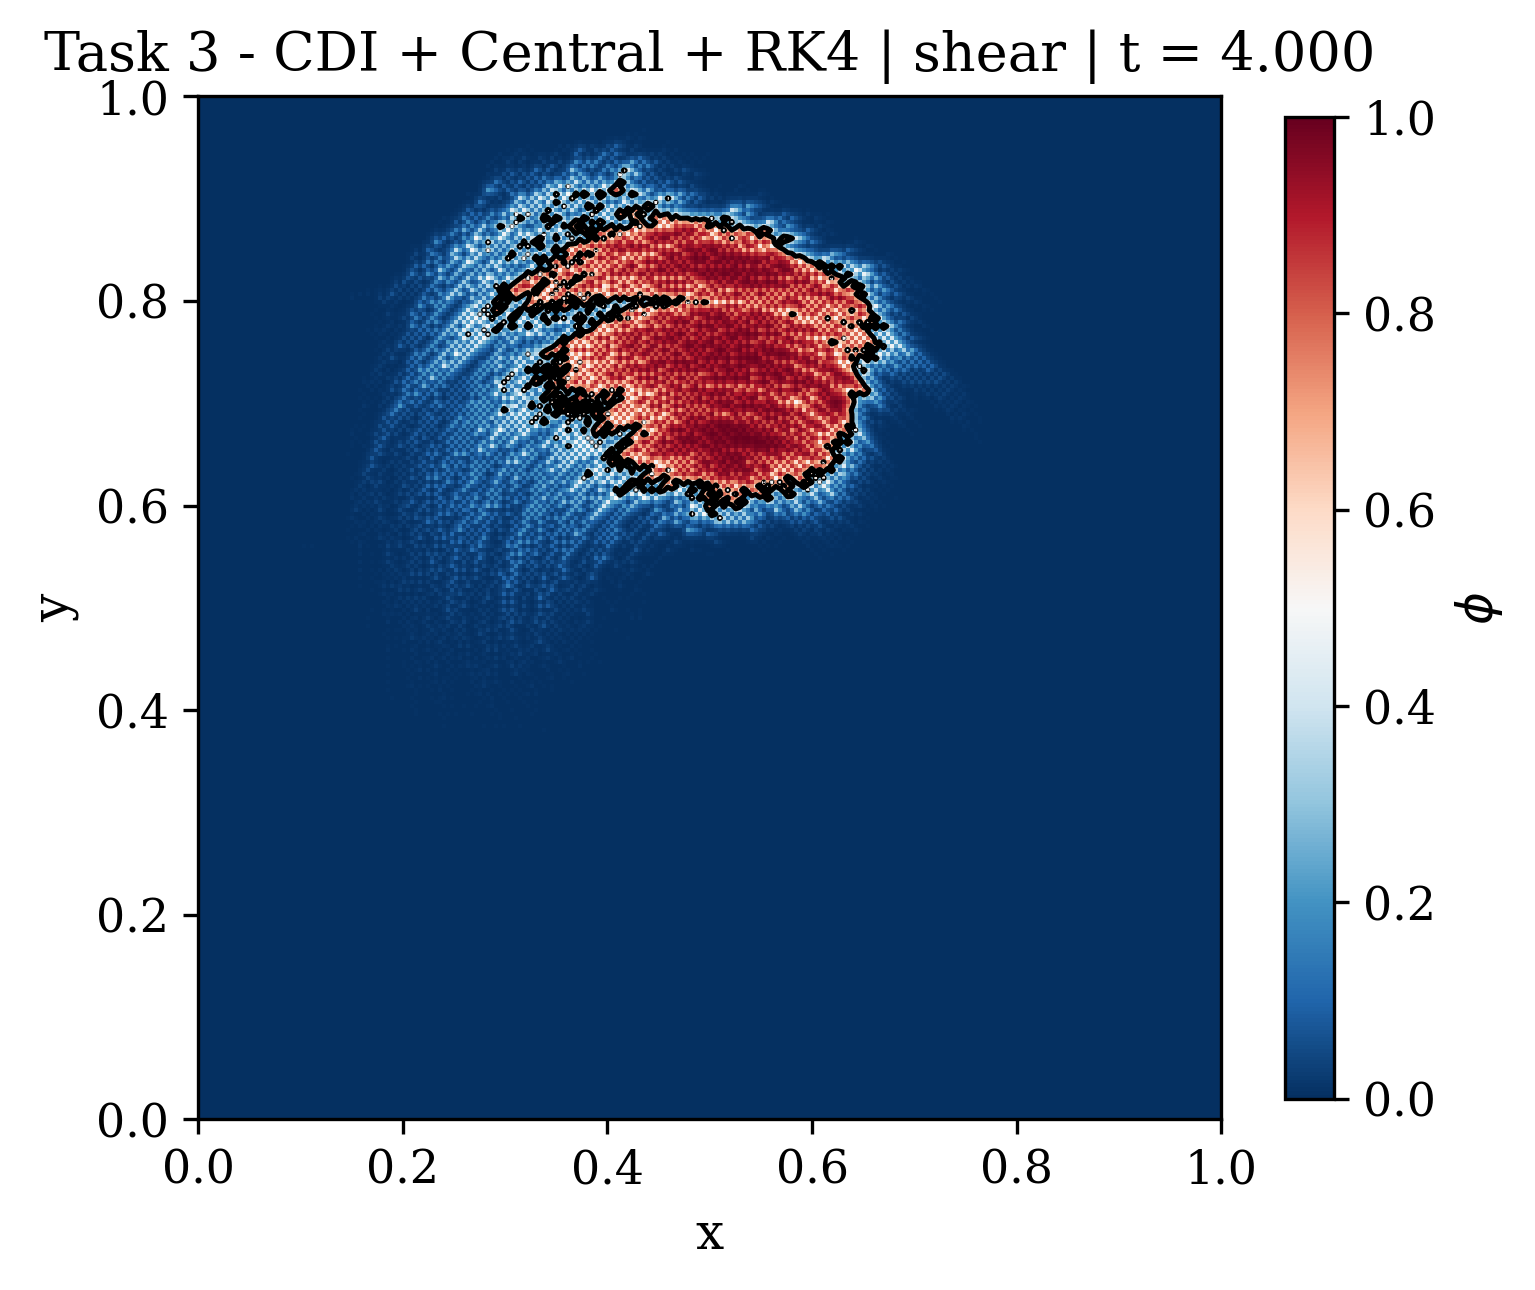
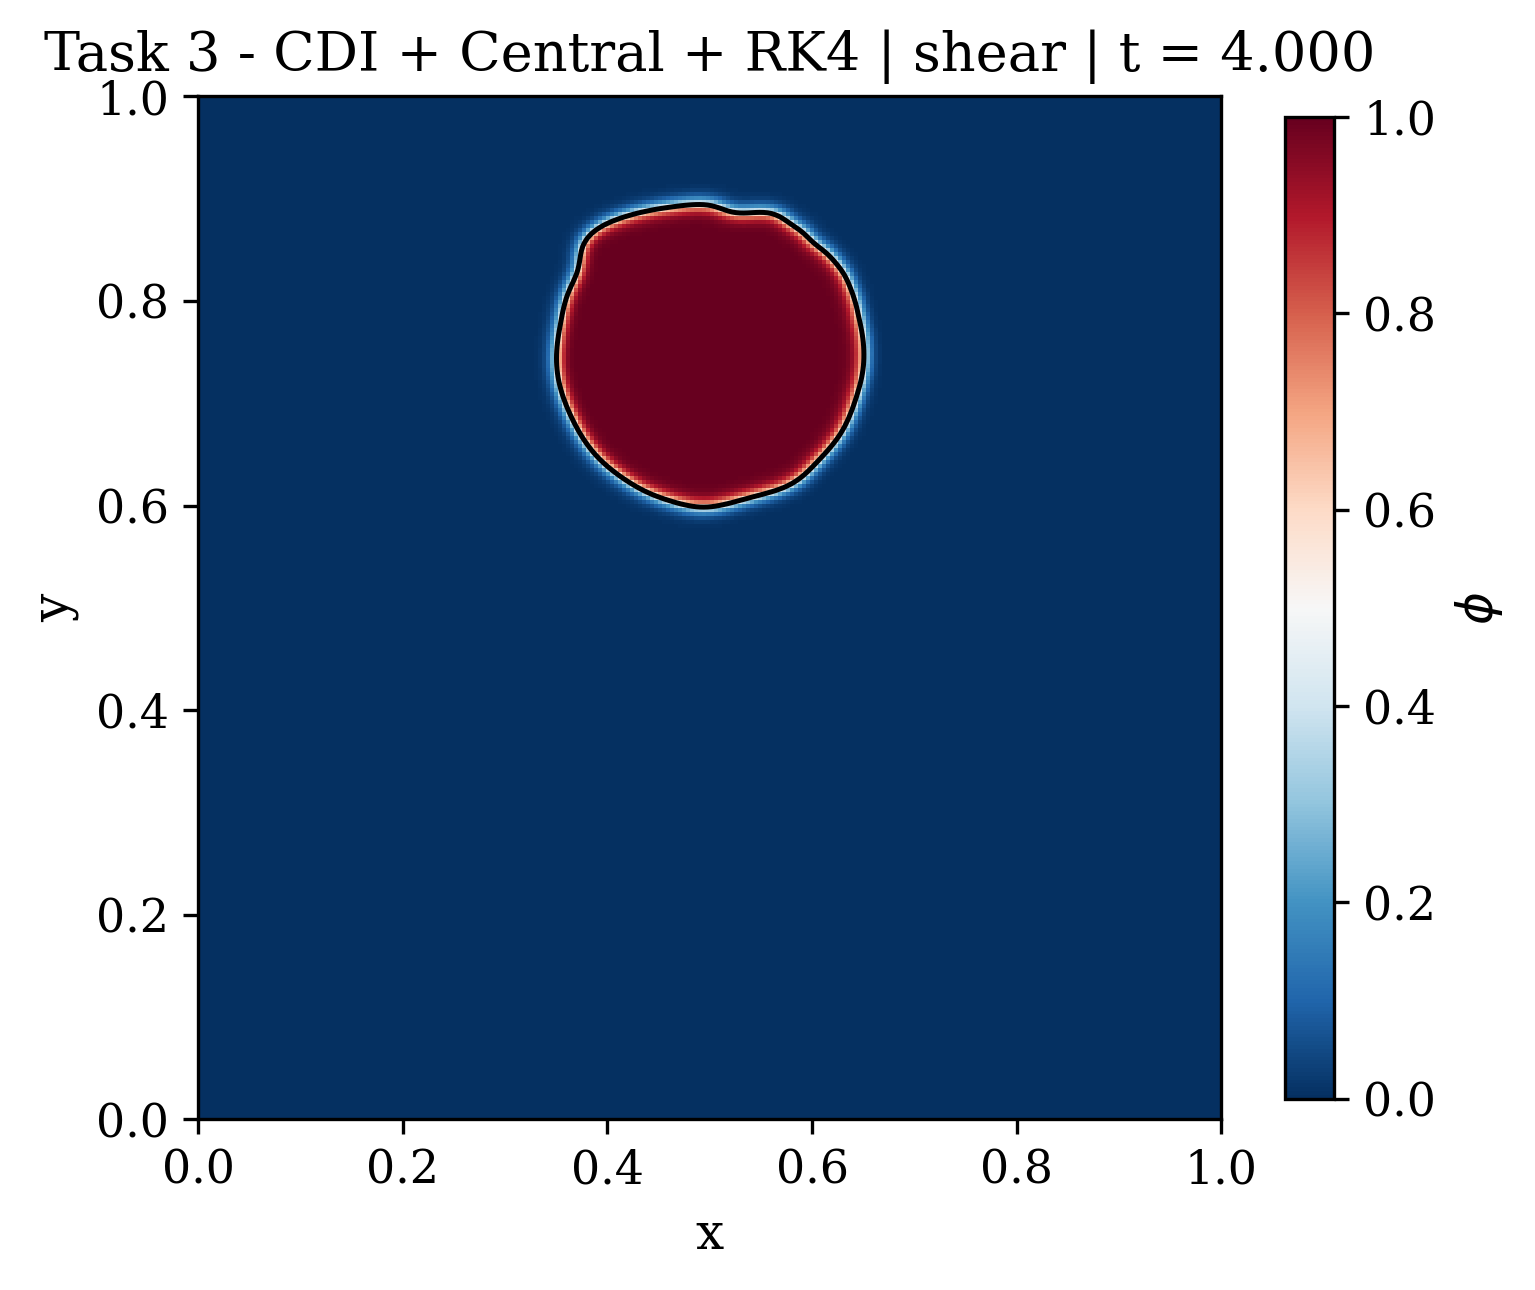
fixed all bug, no explanation just beast mode

Changed region(s): [[0.245, 0.093, 0.6124, 0.4961]]

diff --git a/src/core/regularization.py b/src/core/regularization.py
@@ -17,17 +17,18 @@ where n_hat = grad(phi) / |grad(phi)| is the interface unit normal,
 eps is the interface half-thickness parameter, and Gamma is a rate
 parameter that must satisfy Gamma >= |u|_max / (2*eps/dx - 1).
 
-ACDI (Accurate CDI) -- Jain 2022, Eq. (20)-(21)
--------------------------------------------------
-ACDI reformulates the sharpening term using the transformed variable
-psi = eps * ln(phi / (1-phi)):
+ACDI (Accurate CDI) -- Jain 2022, Eq. (7), (20)-(21)
+----------------------------------------------------
+ACDI replaces the phi-based sharpening flux with a psi-based form:
 
-    R_ACDI = Gamma * div[ eps*grad(phi) - coeff*n_psi ]
+    R_ACDI = Gamma * div[ eps*grad(phi)
+                          - (1/4)(1 - tanh^2(psi/(2*eps))) * grad(psi)/|grad(psi)| ]
 
-where coeff = (1/4)*(1 - tanh^2(psi / (2*eps))) and
-n_psi = grad(psi) / |grad(psi)| is the interface normal computed from psi.
-Paired with skew-symmetric advection splitting.
-Gamma >= |u|_max for ACDI.
+where psi = eps * ln(phi / (1-phi)) is a signed-distance-like variable.
+The diffusion coefficient is the SAME as CDI (full eps).  The improvement
+comes from using psi -- a smoother function than phi -- to compute the
+sharpening flux and normal, yielding more accurate discrete gradients.
+Gamma >= |u|_max for ACDI (Eq. 9).
 
 Both methods preserve:
   - Global mass (integral of phi) to machine precision.
@@ -78,13 +79,15 @@ def cdi_regularization(
     eps: float,
     Gamma: float = 1.0,
 ) -> np.ndarray:
-    """Return the CDI regularisation RHS term.
+    """Return the CDI regularisation RHS term (Jain 2022, Eq. 1/21).
 
     Implements:
-        R_CDI = Gamma * [ eps * lap(phi) - div( phi*(1-phi)*n_hat ) ]
+        R_CDI = Gamma * div[ eps*grad(phi) - phi*(1-phi)*n_hat ]
 
-    Computed at faces in divergence form for exact conservation:
-        R = Gamma * div[ eps*grad(phi) - phi*(1-phi)*n_hat ]
+    Discretisation follows Jain 2022 Eq. (21): diffusion uses compact face
+    gradients, sharpening flux (phi*(1-phi)*n_hat) is computed at cell centres
+    and averaged to faces.  This ensures better cancellation between the
+    diffusion and sharpening terms at the discrete level.
 
     Parameters
     ----------
@@ -105,32 +108,30 @@ def cdi_regularization(
     nx_c, ny_c = mesh.nx, mesh.ny
     dx, dy = mesh.dx, mesh.dy
 
-    # Cell-centre gradients (periodic)
-    dphi_dy_cc = (np.roll(phi, -1, axis=0) - np.roll(phi, 1, axis=0)) / (2.0 * dy)
+    # Cell-centre gradients and normalised normal (periodic)
     dphi_dx_cc = (np.roll(phi, -1, axis=1) - np.roll(phi, 1, axis=1)) / (2.0 * dx)
+    dphi_dy_cc = (np.roll(phi, -1, axis=0) - np.roll(phi, 1, axis=0)) / (2.0 * dy)
+    mag_cc = np.sqrt(dphi_dx_cc**2 + dphi_dy_cc**2) + 1e-14
+
+    # Cell-centre sharpening vector: phi*(1-phi)*n_hat
+    sharp_x_cc = phi * (1.0 - phi) * dphi_dx_cc / mag_cc
+    sharp_y_cc = phi * (1.0 - phi) * dphi_dy_cc / mag_cc
 
     # --- x-faces (nx+1 faces) ---
     Ax = np.empty((ny_c, nx_c + 1))
     for i in range(nx_c + 1):
         il = (i - 1) % nx_c
         ir = i % nx_c
-        phi_f = 0.5 * (phi[:, il] + phi[:, ir])
         dphi_dx_f = (phi[:, ir] - phi[:, il]) / dx
-        dphi_dy_f = 0.5 * (dphi_dy_cc[:, il] + dphi_dy_cc[:, ir])
-        mag_f = np.sqrt(dphi_dx_f**2 + dphi_dy_f**2) + 1e-14
-        # Flux: eps*dphi_dx - phi*(1-phi)*n_x = eps*dphi_dx - phi*(1-phi)*dphi_dx/|grad|
-        Ax[:, i] = eps * dphi_dx_f - phi_f * (1.0 - phi_f) * dphi_dx_f / mag_f
+        Ax[:, i] = eps * dphi_dx_f - 0.5 * (sharp_x_cc[:, il] + sharp_x_cc[:, ir])
 
     # --- y-faces (ny+1 faces) ---
     Ay = np.empty((ny_c + 1, nx_c))
     for j in range(ny_c + 1):
         jb = (j - 1) % ny_c
         jt = j % ny_c
-        phi_f = 0.5 * (phi[jb, :] + phi[jt, :])
         dphi_dy_f = (phi[jt, :] - phi[jb, :]) / dy
-        dphi_dx_f = 0.5 * (dphi_dx_cc[jb, :] + dphi_dx_cc[jt, :])
-        mag_f = np.sqrt(dphi_dx_f**2 + dphi_dy_f**2) + 1e-14
-        Ay[j, :] = eps * dphi_dy_f - phi_f * (1.0 - phi_f) * dphi_dy_f / mag_f
+        Ay[j, :] = eps * dphi_dy_f - 0.5 * (sharp_y_cc[jb, :] + sharp_y_cc[jt, :])
 
     # Divergence of the regularisation flux, scaled by Gamma
     rhs = Gamma * ((Ax[:, 1:] - Ax[:, :-1]) / dx + (Ay[1:, :] - Ay[:-1, :]) / dy)
@@ -143,14 +144,20 @@ def acdi_regularization(
     eps: float,
     Gamma: float = 1.0,
 ) -> np.ndarray:
-    """Return the ACDI regularisation RHS term (Jain 2022, Eq. 20-21).
+    """Return the ACDI regularisation RHS term (Jain 2022, Eq. 7/21).
 
-    Uses the transformed variable psi = eps * ln(phi / (1-phi)) so the
-    sharpening coefficient becomes (1/4)*(1 - tanh^2(psi/(2*eps))) and the
-    interface normal is computed from grad(psi).
+    Implements (Eq. 7):
+        R_ACDI = Gamma * div[ eps*grad(phi)
+                              - (1/4)(1 - tanh^2(psi/(2*eps))) * grad(psi)/|grad(psi)| ]
 
-    In flux form:
-        R = Gamma * div[ eps*grad(phi) - coeff*n_psi ]
+    where psi = eps * ln(phi / (1 - phi)) is the signed-distance-like variable.
+    The diffusion uses full eps (same as CDI).  The sharpening flux uses
+    the psi-based form for improved discrete accuracy (psi is smoother
+    than phi, yielding more accurate gradient/normal computations).
+
+    Discretisation follows Jain 2022 Eq. (21): diffusion uses compact face
+    gradients, sharpening flux (coeff*n_hat) is computed at cell centres
+    and averaged to faces.
 
     Parameters
     ----------
@@ -171,52 +178,37 @@ def acdi_regularization(
     nx_c, ny_c = mesh.nx, mesh.ny
     dx, dy = mesh.dx, mesh.dy
 
-    # Transformed variable psi = eps * ln(phi / (1 - phi))
-    omega = 1e-100
-    psi = eps * np.log((phi + omega) / (1.0 - phi + omega))
+    # Signed-distance-like variable: psi = eps * ln((phi+w) / (1-phi+w))
+    # Clip phi to [0,1] first (paper Sec. 3.1), then add w per Eq. (8).
+    w = 1e-100
+    phi_c = np.clip(phi, 0.0, 1.0)
+    psi = eps * np.log((phi_c + w) / (1.0 - phi_c + w))
 
-    # Cell-centre gradients of psi
+    # Cell-centre gradients of psi and normalised normal
     dpsi_dx_cc = (np.roll(psi, -1, axis=1) - np.roll(psi, 1, axis=1)) / (2.0 * dx)
     dpsi_dy_cc = (np.roll(psi, -1, axis=0) - np.roll(psi, 1, axis=0)) / (2.0 * dy)
+    mag_psi_cc = np.sqrt(dpsi_dx_cc**2 + dpsi_dy_cc**2) + 1e-14
+
+    # Cell-centre sharpening vector: coeff * n_hat (Eq. 21)
+    coeff_cc = 0.25 * (1.0 - np.tanh(psi / (2.0 * eps)) ** 2)
+    sharp_x_cc = coeff_cc * dpsi_dx_cc / mag_psi_cc
+    sharp_y_cc = coeff_cc * dpsi_dy_cc / mag_psi_cc
 
     # --- x-faces ---
     Ax = np.empty((ny_c, nx_c + 1))
     for i in range(nx_c + 1):
         il = (i - 1) % nx_c
         ir = i % nx_c
-
-        # phi diffusion term
         dphi_dx_f = (phi[:, ir] - phi[:, il]) / dx
-
-        # psi sharpening term
-        dpsi_dx_f = (psi[:, ir] - psi[:, il]) / dx
-        dpsi_dy_f = 0.5 * (dpsi_dy_cc[:, il] + dpsi_dy_cc[:, ir])
-        psi_f = 0.5 * (psi[:, il] + psi[:, ir])
-
-        mag_psi_f = np.sqrt(dpsi_dx_f**2 + dpsi_dy_f**2) + 1e-14
-
-        # ACDI coefficient: (1/4)(1 - tanh^2(psi / (2*eps)))
-        coeff = 0.25 * (1.0 - np.tanh(psi_f / (2.0 * eps)) ** 2)
-
-        Ax[:, i] = eps * dphi_dx_f - coeff * dpsi_dx_f / mag_psi_f
+        Ax[:, i] = eps * dphi_dx_f - 0.5 * (sharp_x_cc[:, il] + sharp_x_cc[:, ir])
 
     # --- y-faces ---
     Ay = np.empty((ny_c + 1, nx_c))
     for j in range(ny_c + 1):
         jb = (j - 1) % ny_c
         jt = j % ny_c
-
         dphi_dy_f = (phi[jt, :] - phi[jb, :]) / dy
-
-        dpsi_dy_f = (psi[jt, :] - psi[jb, :]) / dy
-        dpsi_dx_f = 0.5 * (dpsi_dx_cc[jb, :] + dpsi_dx_cc[jt, :])
-        psi_f = 0.5 * (psi[jb, :] + psi[jt, :])
-
-        mag_psi_f = np.sqrt(dpsi_dx_f**2 + dpsi_dy_f**2) + 1e-14
-
-        coeff = 0.25 * (1.0 - np.tanh(psi_f / (2.0 * eps)) ** 2)
-
-        Ay[j, :] = eps * dphi_dy_f - coeff * dpsi_dy_f / mag_psi_f
+        Ay[j, :] = eps * dphi_dy_f - 0.5 * (sharp_y_cc[jb, :] + sharp_y_cc[jt, :])
 
     rhs = Gamma * ((Ax[:, 1:] - Ax[:, :-1]) / dx + (Ay[1:, :] - Ay[:-1, :]) / dy)
     return rhs

diff --git a/src/solvers/task3_cdi_2nd_rk4.py b/src/solvers/task3_cdi_2nd_rk4.py
@@ -59,6 +59,7 @@ def build_rhs(
     mesh: Mesh,
     velocity_fn,
     eps: float,
+    u_max_global: float,
 ) -> np.ndarray:
     """Assemble the CDI RHS: 2nd-order central advection + CDI regularisation.
 
@@ -74,6 +75,8 @@ def build_rhs(
         Returns (u_face, v_face) given (mesh, t).
     eps : float
         Interface half-thickness parameter.
+    u_max_global : float
+        Global maximum velocity magnitude (over all time).
 
     Returns
     -------
@@ -82,10 +85,9 @@ def build_rhs(
     """
     u_face, v_face = velocity_fn(mesh, t)
     adv = central_flux(phi, u_face, v_face, mesh)
-    # Gamma >= |u|_max / (2*eps/dx - 1)
-    u_max = max(np.max(np.abs(u_face)), np.max(np.abs(v_face)), 1e-14)
+    # Gamma >= |u|_max / (2*eps/dx - 1), using global max velocity
     eps_star = eps / mesh.dx
-    Gamma = u_max / max(2.0 * eps_star - 1.0, 0.1)
+    Gamma = u_max_global / max(2.0 * eps_star - 1.0, 0.1)
     reg = cdi_regularization(phi, mesh, eps, Gamma=Gamma)
     return adv + reg
 
@@ -113,8 +115,12 @@ def run_task3(cfg: dict[str, Any]) -> tuple[list[np.ndarray], list[float]]:
     dt = cfg["dt"]
     save_freq = cfg.get("save_freq", 10)
 
+    # Global max velocity (at t=0 when cos(pi*t/T)=1 for shear flow)
+    u_face0, v_face0 = velocity_fn(mesh, 0.0)
+    u_max_g = max(np.max(np.abs(u_face0)), np.max(np.abs(v_face0)), 1e-14)
+
     def rhs_fn(phi, t):
-        return build_rhs(phi, t, mesh, velocity_fn, eps)
+        return build_rhs(phi, t, mesh, velocity_fn, eps, u_max_g)
 
     phi_history = [phi.copy()]
     t_history = [0.0]

diff --git a/src/solvers/task2_cdi_1st.py b/src/solvers/task2_cdi_1st.py
@@ -59,6 +59,7 @@ def build_rhs(
     mesh: Mesh,
     velocity_fn,
     eps: float,
+    u_max_global: float,
 ) -> np.ndarray:
     """Assemble the CDI RHS: upwind advection + CDI regularisation.
 
@@ -74,6 +75,8 @@ def build_rhs(
         Returns (u_face, v_face) given (mesh, t).
     eps : float
         Interface half-thickness parameter.
+    u_max_global : float
+        Global maximum velocity magnitude (over all time).
 
     Returns
     -------
@@ -82,10 +85,9 @@ def build_rhs(
     """
     u_face, v_face = velocity_fn(mesh, t)
     adv = upwind_flux(phi, u_face, v_face, mesh)
-    # Gamma >= |u|_max / (2*eps/dx - 1)
-    u_max = max(np.max(np.abs(u_face)), np.max(np.abs(v_face)), 1e-14)
+    # Gamma >= |u|_max / (2*eps/dx - 1), using global max velocity
     eps_star = eps / mesh.dx
-    Gamma = u_max / max(2.0 * eps_star - 1.0, 0.1)
+    Gamma = u_max_global / max(2.0 * eps_star - 1.0, 0.1)
     reg = cdi_regularization(phi, mesh, eps, Gamma=Gamma)
     return adv + reg
 
@@ -113,8 +115,12 @@ def run_task2(cfg: dict[str, Any]) -> tuple[list[np.ndarray], list[float]]:
     dt = cfg["dt"]
     save_freq = cfg.get("save_freq", 10)
 
+    # Global max velocity (at t=0 when cos(pi*t/T)=1 for shear flow)
+    u_face0, v_face0 = velocity_fn(mesh, 0.0)
+    u_max_g = max(np.max(np.abs(u_face0)), np.max(np.abs(v_face0)), 1e-14)
+
     def rhs_fn(phi, t):
-        return build_rhs(phi, t, mesh, velocity_fn, eps)
+        return build_rhs(phi, t, mesh, velocity_fn, eps, u_max_g)
 
     phi_history = [phi.copy()]
     t_history = [0.0]

diff --git a/src/solvers/task4_acdi.py b/src/solvers/task4_acdi.py
@@ -116,6 +116,7 @@ def build_rhs(
     mesh: Mesh,
     velocity_fn,
     eps: float,
+    u_max_global: float,
 ) -> np.ndarray:
     """Assemble the full ACDI RHS: skew-symmetric advection + ACDI regularisation.
 
@@ -131,6 +132,8 @@ def build_rhs(
         Returns (u_face, v_face) given (mesh, t).
     eps : float
         Interface half-thickness parameter.
+    u_max_global : float
+        Global maximum velocity magnitude (over all time).
 
     Returns
     -------
@@ -139,9 +142,8 @@ def build_rhs(
     """
     u_face, v_face = velocity_fn(mesh, t)
     adv = skew_symmetric_advection(phi, u_face, v_face, mesh)
-    # Gamma >= |u|_max for ACDI
-    u_max = max(np.max(np.abs(u_face)), np.max(np.abs(v_face)), 1e-14)
-    Gamma = u_max
+    # Gamma = |u|_max (global, Eq. 9)
+    Gamma = u_max_global
     reg = acdi_regularization(phi, mesh, eps, Gamma=Gamma)
     return adv + reg
 
@@ -169,8 +171,12 @@ def run_task4(cfg: dict[str, Any]) -> tuple[list[np.ndarray], list[float]]:
     dt = cfg["dt"]
     save_freq = cfg.get("save_freq", 10)
 
+    # Global max velocity (at t=0 when cos(pi*t/T)=1 for shear flow)
+    u_face0, v_face0 = velocity_fn(mesh, 0.0)
+    u_max_g = max(np.max(np.abs(u_face0)), np.max(np.abs(v_face0)), 1e-14)
+
     def rhs_fn(phi, t):
-        return build_rhs(phi, t, mesh, velocity_fn, eps)
+        return build_rhs(phi, t, mesh, velocity_fn, eps, u_max_g)
 
     phi_history = [phi.copy()]
     t_history = [0.0]

diff --git a/src/config.py b/src/config.py
@@ -44,6 +44,7 @@ RESULTS_ROOT = os.path.join(PROJECT_ROOT, "results")
 # Mesh defaults
 # ---------------------------------------------------------------------------
 
+#Shear test config
 DEFAULT_MESH_CFG: dict = {
     "nx": 256,       # cells in x-direction
     "ny": 256,       # cells in y-direction
@@ -53,6 +54,16 @@ DEFAULT_MESH_CFG: dict = {
     "y0": 0.0,       # domain origin y
 }
 
+'''
+DEFAULT_MESH_CFG: dict = {
+    "nx": 50,
+    "ny": 50,
+    "Lx": 1.0,
+    "Ly": 1.0,
+    "x0": 0.0,
+    "y0": 0.0,
+}
+'''
 # ---------------------------------------------------------------------------
 # Drop geometry defaults
 # ---------------------------------------------------------------------------
